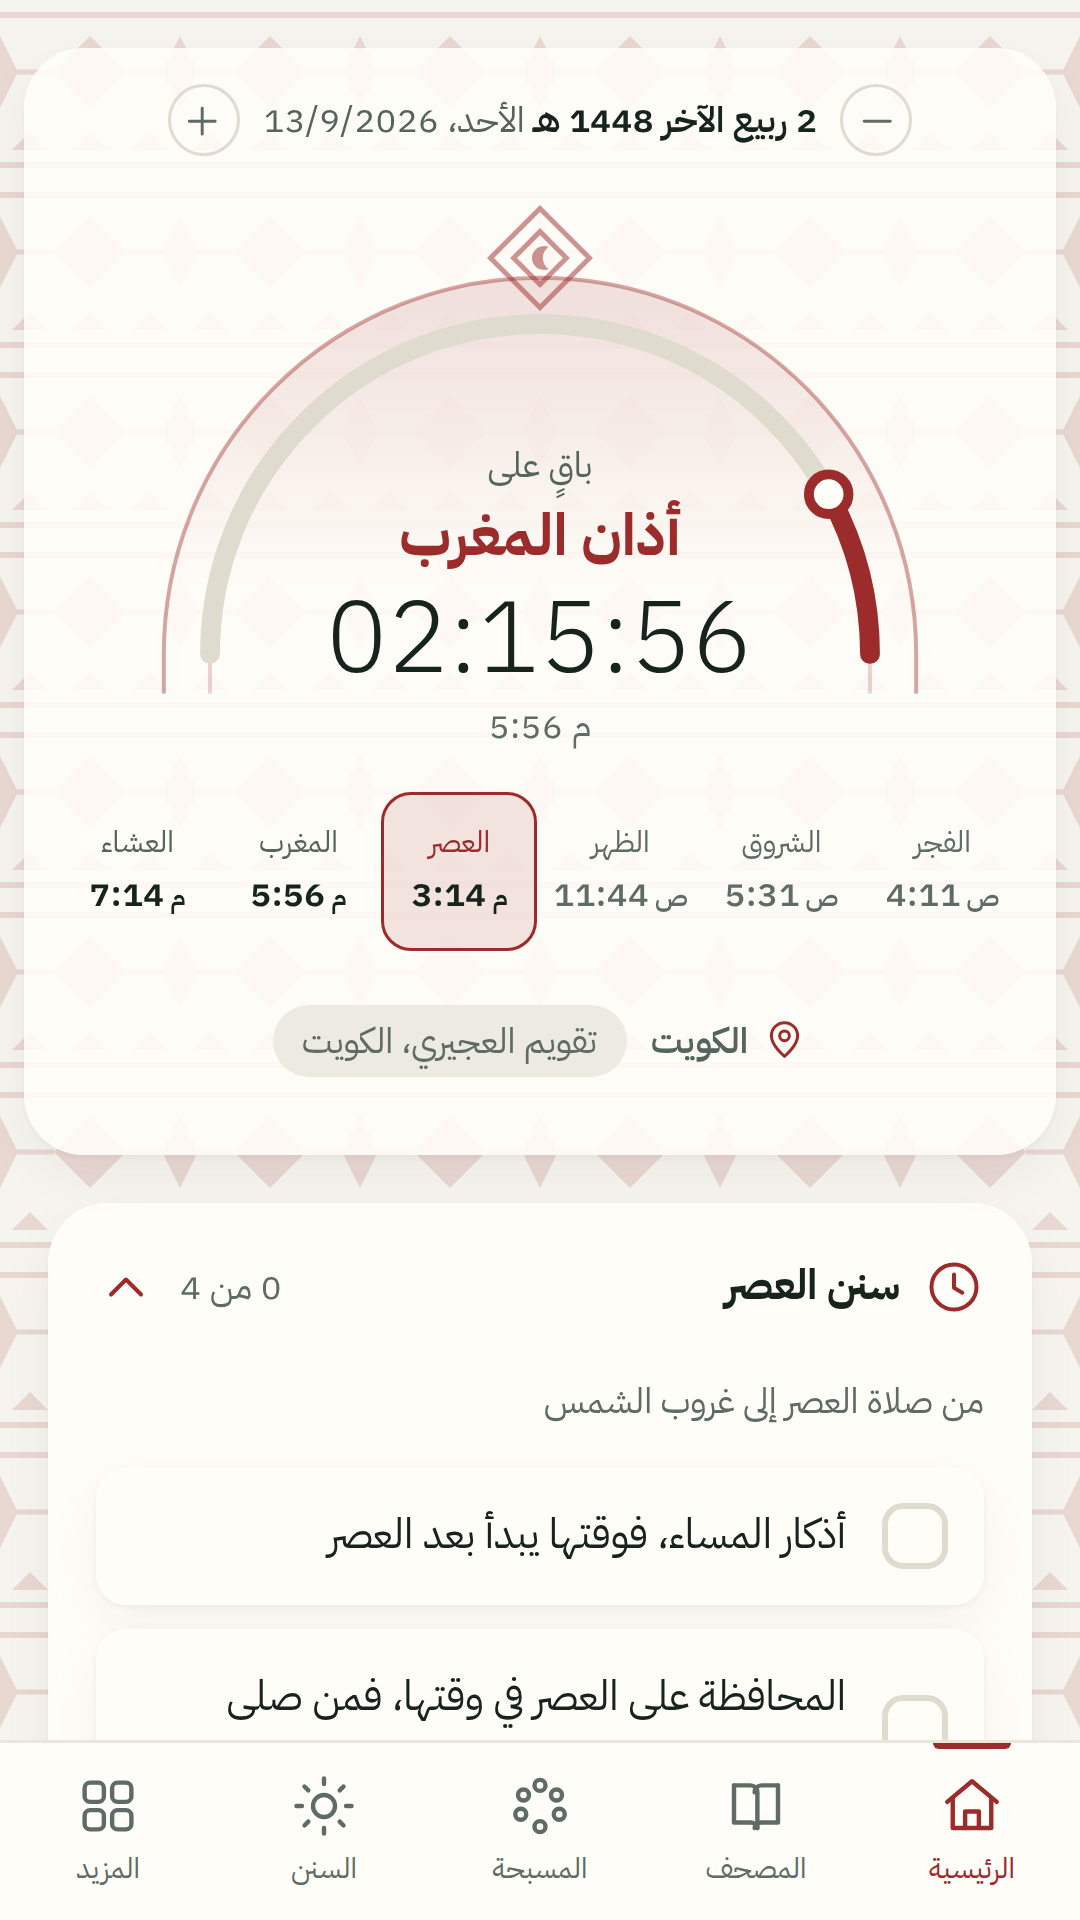
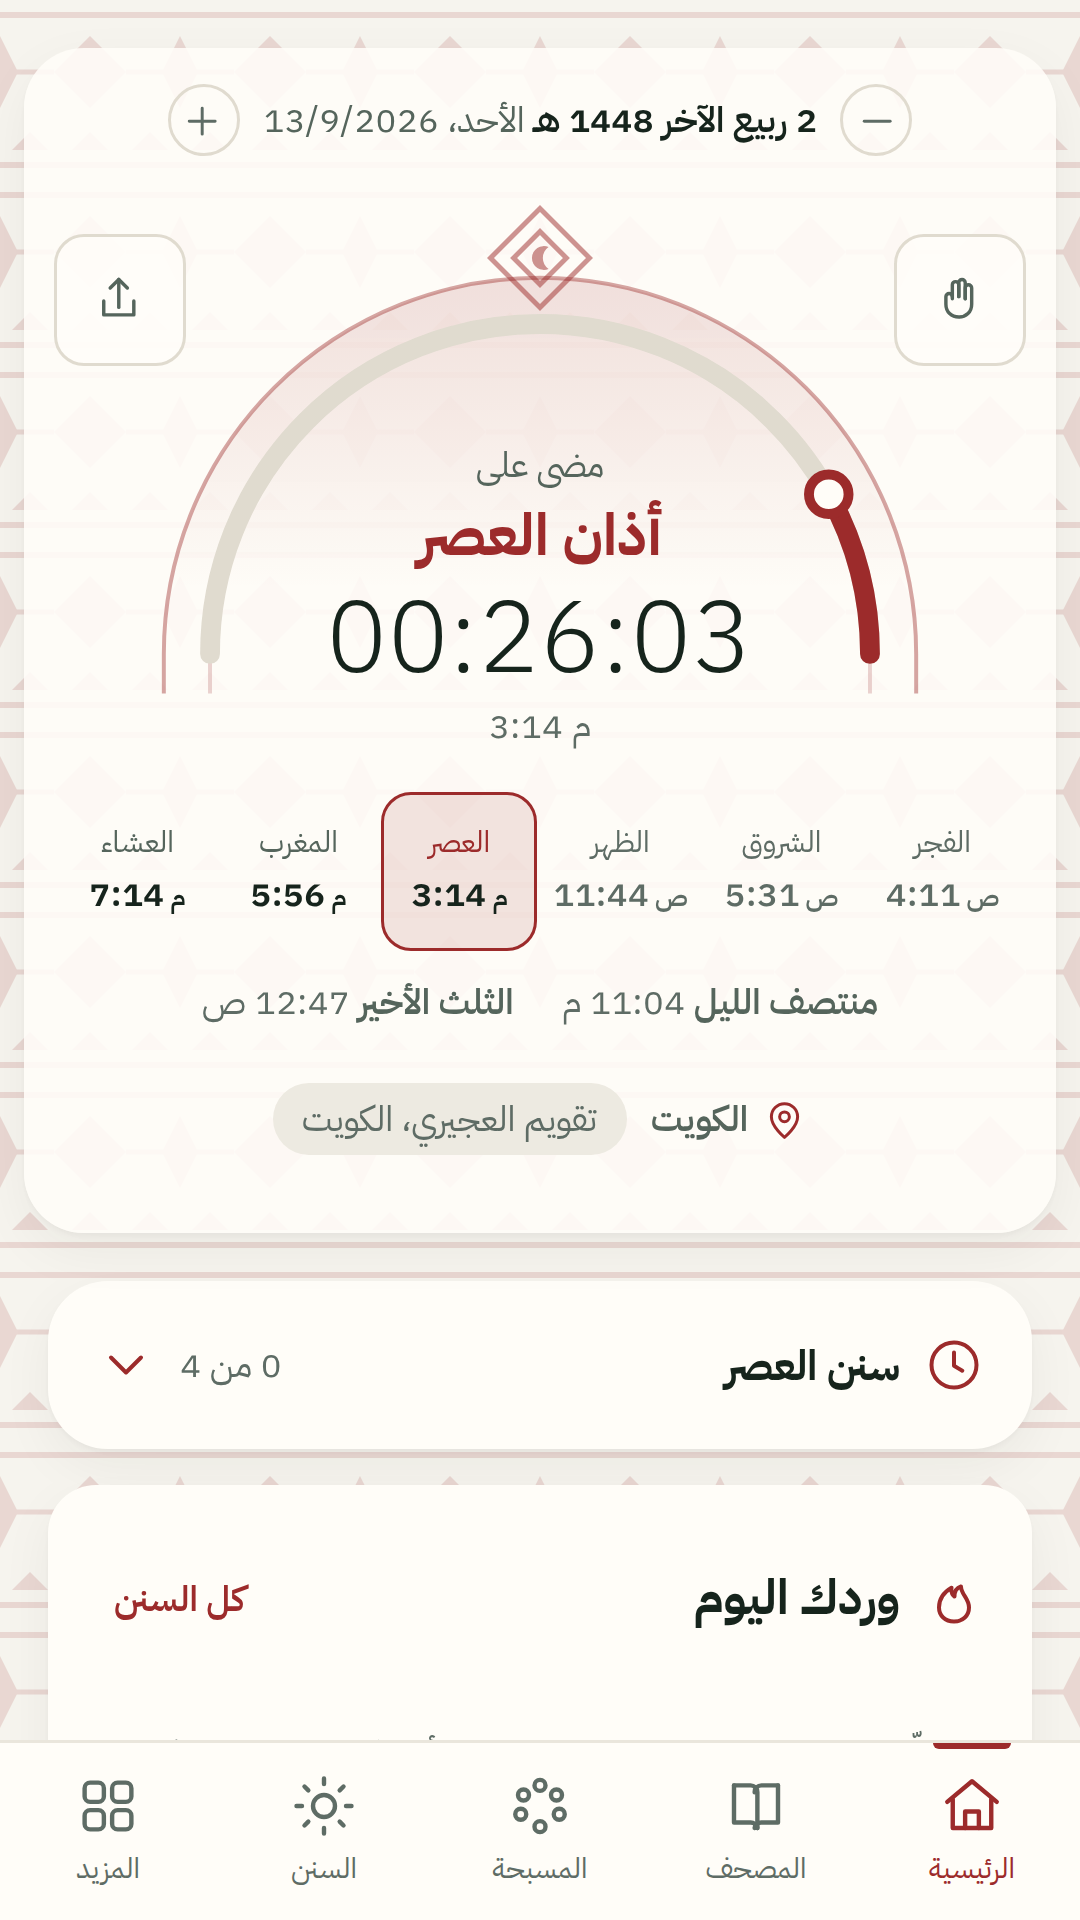
v8.23.1

diff --git a/test/interface.test.js b/test/interface.test.js
@@ -6264,3 +6264,16 @@ test('the retry button stands clear of the line above it', () => {
   const app = fs.readFileSync(path.join(DOCS, 'js', 'app.js'), 'utf8');
   assert.strictEqual((app.match(/btn-block mosque-again/g) || []).length, 2);
 });
+
+test('the app links file carries only real fingerprints', () => {
+  const raw = fs.readFileSync(path.join(DOCS, '.well-known', 'assetlinks.json'), 'utf8');
+  const links = JSON.parse(raw);
+  const prints = links[0].target.sha256_cert_fingerprints;
+  /* a line that is not a fingerprint can throw the whole file out with
+     google's verifier, taking the good one with it */
+  prints.forEach(function (f) {
+    assert.match(f, /^([0-9A-F]{2}:){31}[0-9A-F]{2}$/, 'not a fingerprint: ' + f);
+  });
+  assert.strictEqual(links[0].target.package_name, 'com.eworldq8.sunnati');
+  assert.ok(prints.length >= 1);
+});

diff --git a/docs/js/app.js b/docs/js/app.js
@@ -7,7 +7,7 @@
 (function (window, document) {
   'use strict';
 
-  var VERSION = '8.23.0';
+  var VERSION = '8.23.1';
   var DEFAULT_PLACE = { n: 'الكويت', lat: 29.3759, lng: 47.9774, tz: 3, z: 'Asia/Kuwait', method: 'Kuwait' };
   var ARC_LENGTH = 314.16;
   var TOTAL_PAGES = 604;

diff --git a/docs/sw.js b/docs/sw.js
@@ -8,7 +8,7 @@
    The mushaf and the icons never change under the same name, so those stay
    cache first and cost nothing after the first visit. */
 
-var VERSION = 'sunnati-v8.23.0';
+var VERSION = 'sunnati-v8.23.1';
 
 var SHELL = [
   './',

diff --git a/play/README.md b/play/README.md
@@ -79,6 +79,15 @@ keytool -list -v -keystore android.keystore -alias sunnati | grep SHA256
 الصباح بعد الفجر، والمساء بعد العصر، والنوم بعد العشاء. ويُرسل أي ذكر صورة
 تحمل مصدره.
 
+■ المساجد القريبة
+خريطة حولك، وأقرب المساجد بمسافاتها، وطريقك إلى أيّها شئت.
+
+■ صلاة الضحى وقيام الليل
+تذكير بوقت الضحى وأفضله، وآخر بدخول الثلث الأخير من الليل.
+
+■ سنن العيد
+يوم العيد يفتح التطبيق بوقت الصلاة وسننها.
+
 ■ القضاء
 ما عليك من الصلوات يُحسب مما علّمته فائتاً في صلاتي، وينقص كلما قضيت واحدة،
 ومعه قضاء صيام رمضان بعدد أيامه.
@@ -86,6 +95,9 @@ keytool -list -v -keystore android.keystore -alias sunnati | grep SHA256
 ■ ورد اليوم ونداء الجمعة
 تنبيه في الساعة التي تختارها يقول صفحات وردك من خطة الختمة، وتنبيه قبل صلاة
 الجمعة بقراءة الكهف والصلاة على النبي ﷺ.
+
+■ الساعة كما تحب
+اثنتا عشرة بصباح ومساء، أو أربع وعشرون.
 
 ■ بحث في كل شيء
 المصحف وحصن المسلم والأذكار والأحاديث والأدعية والسنن وصفة العمرة، في حقل واحد.
